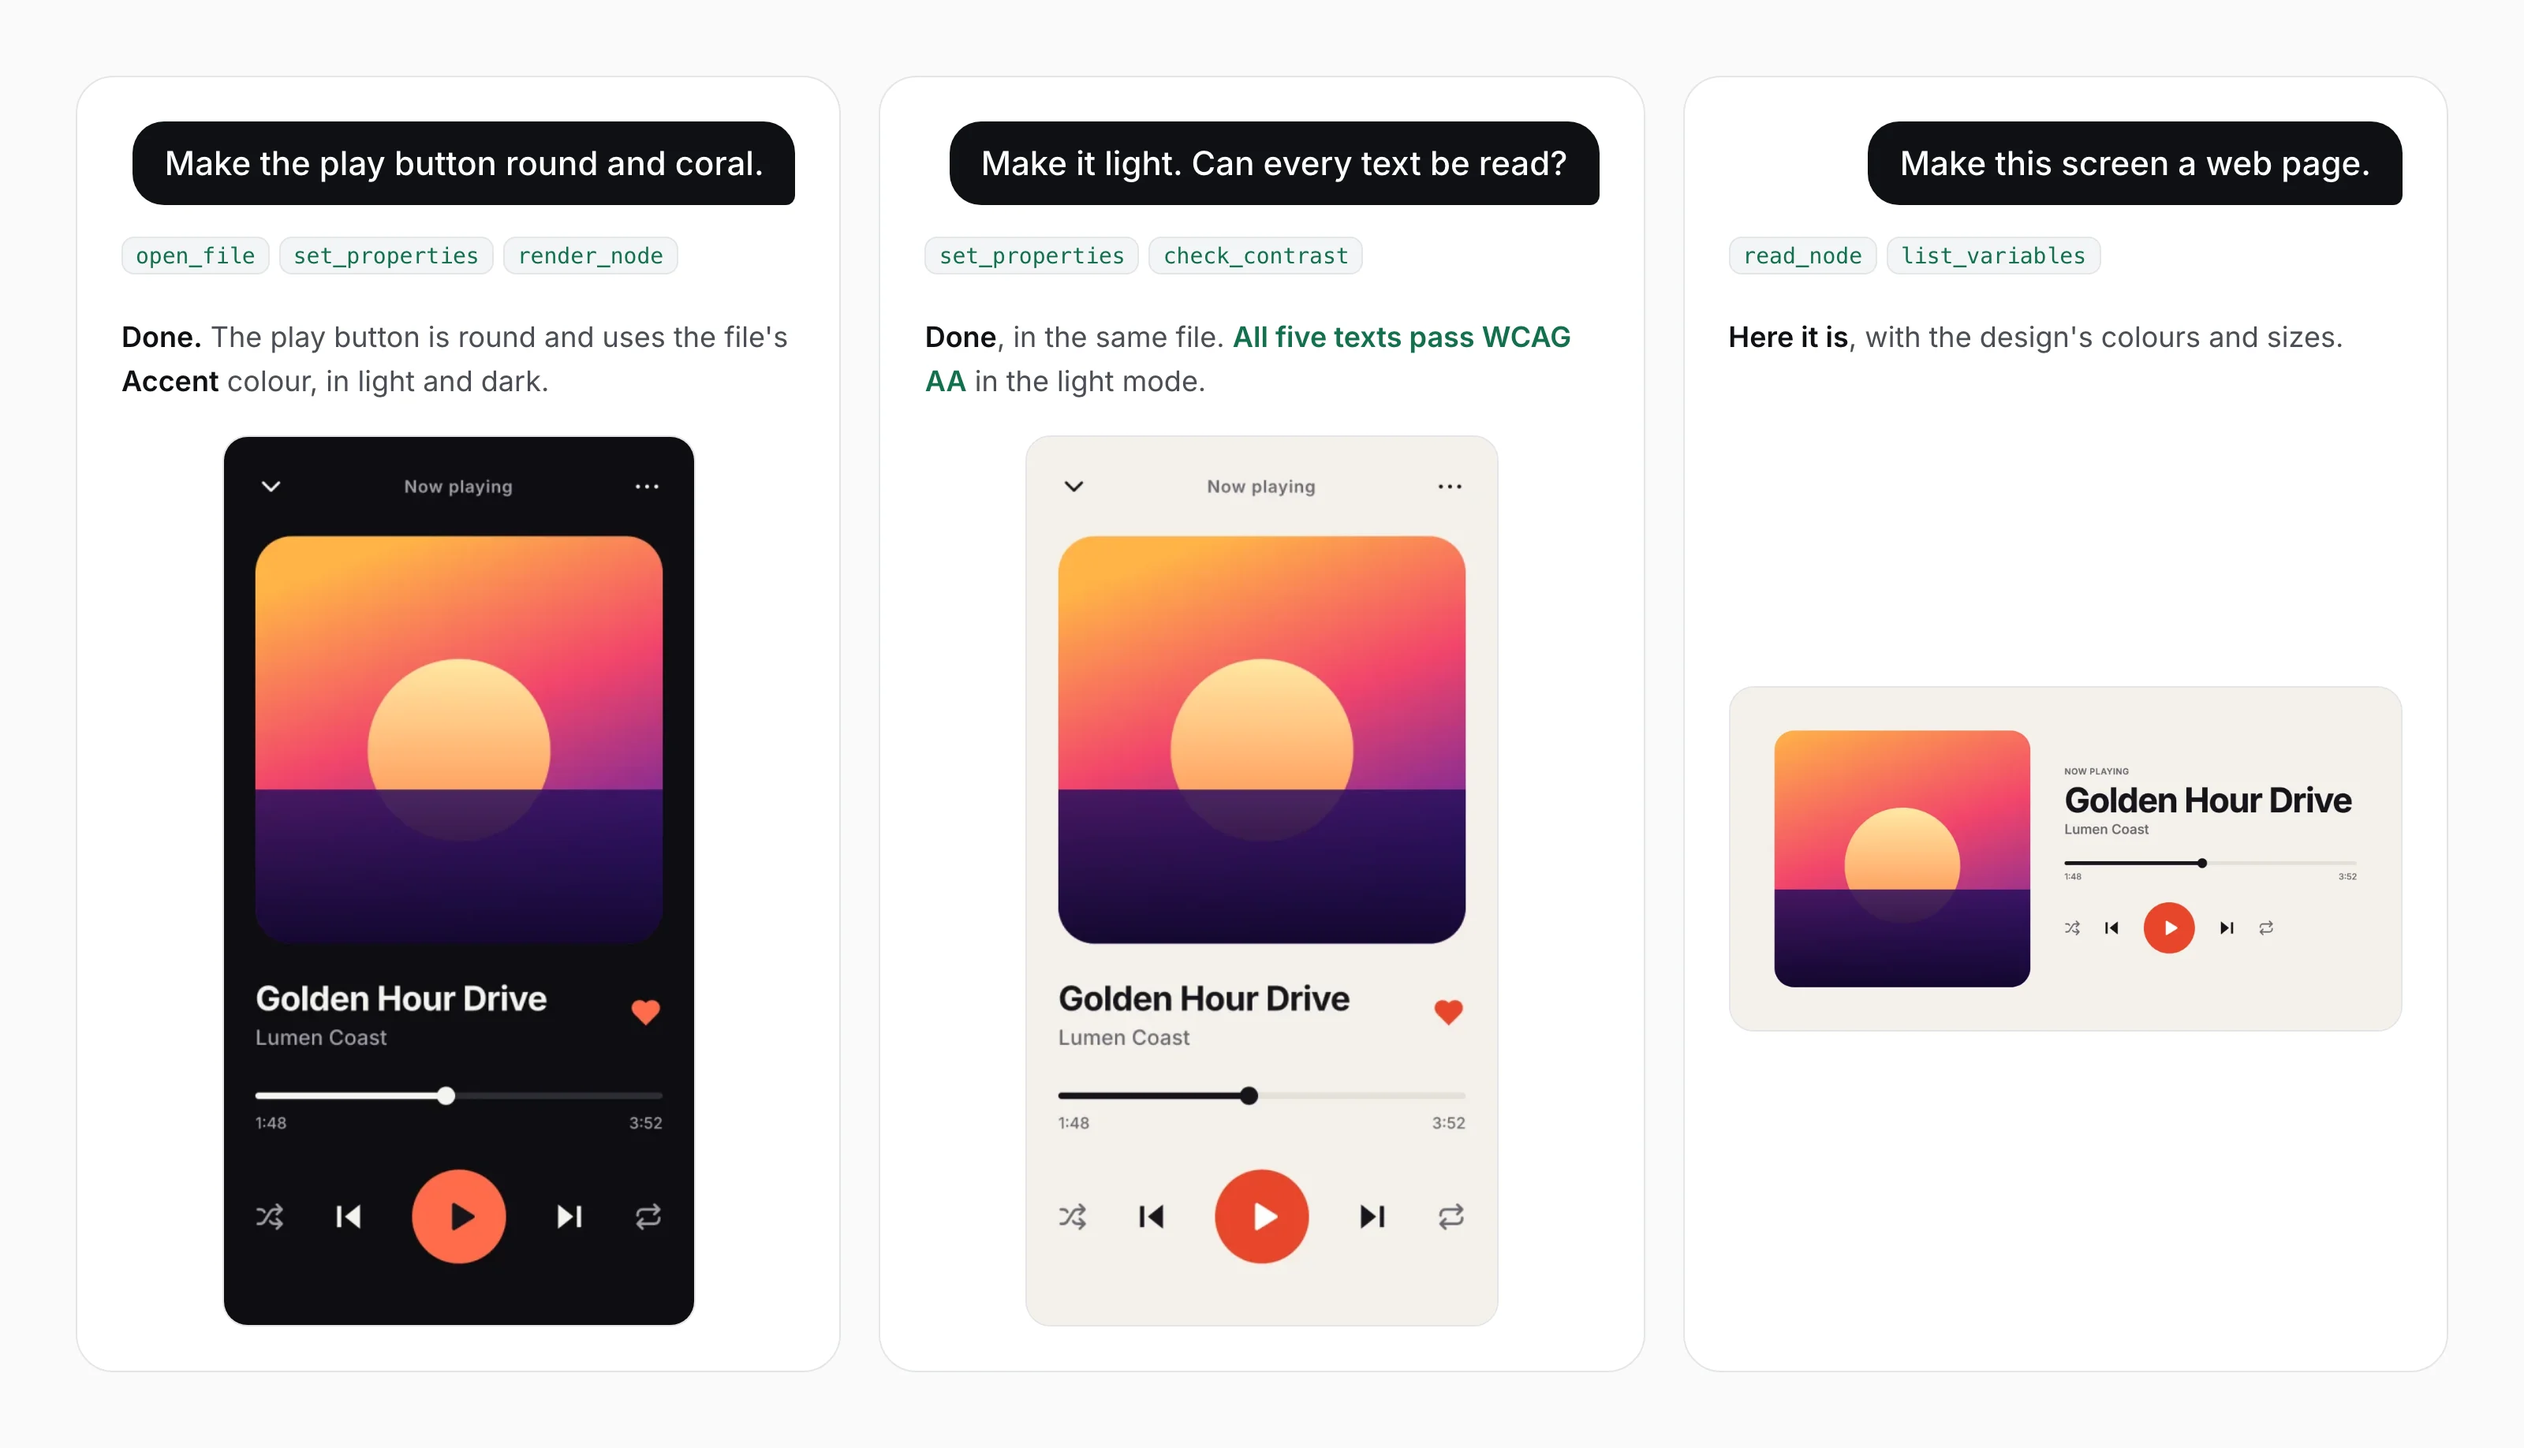
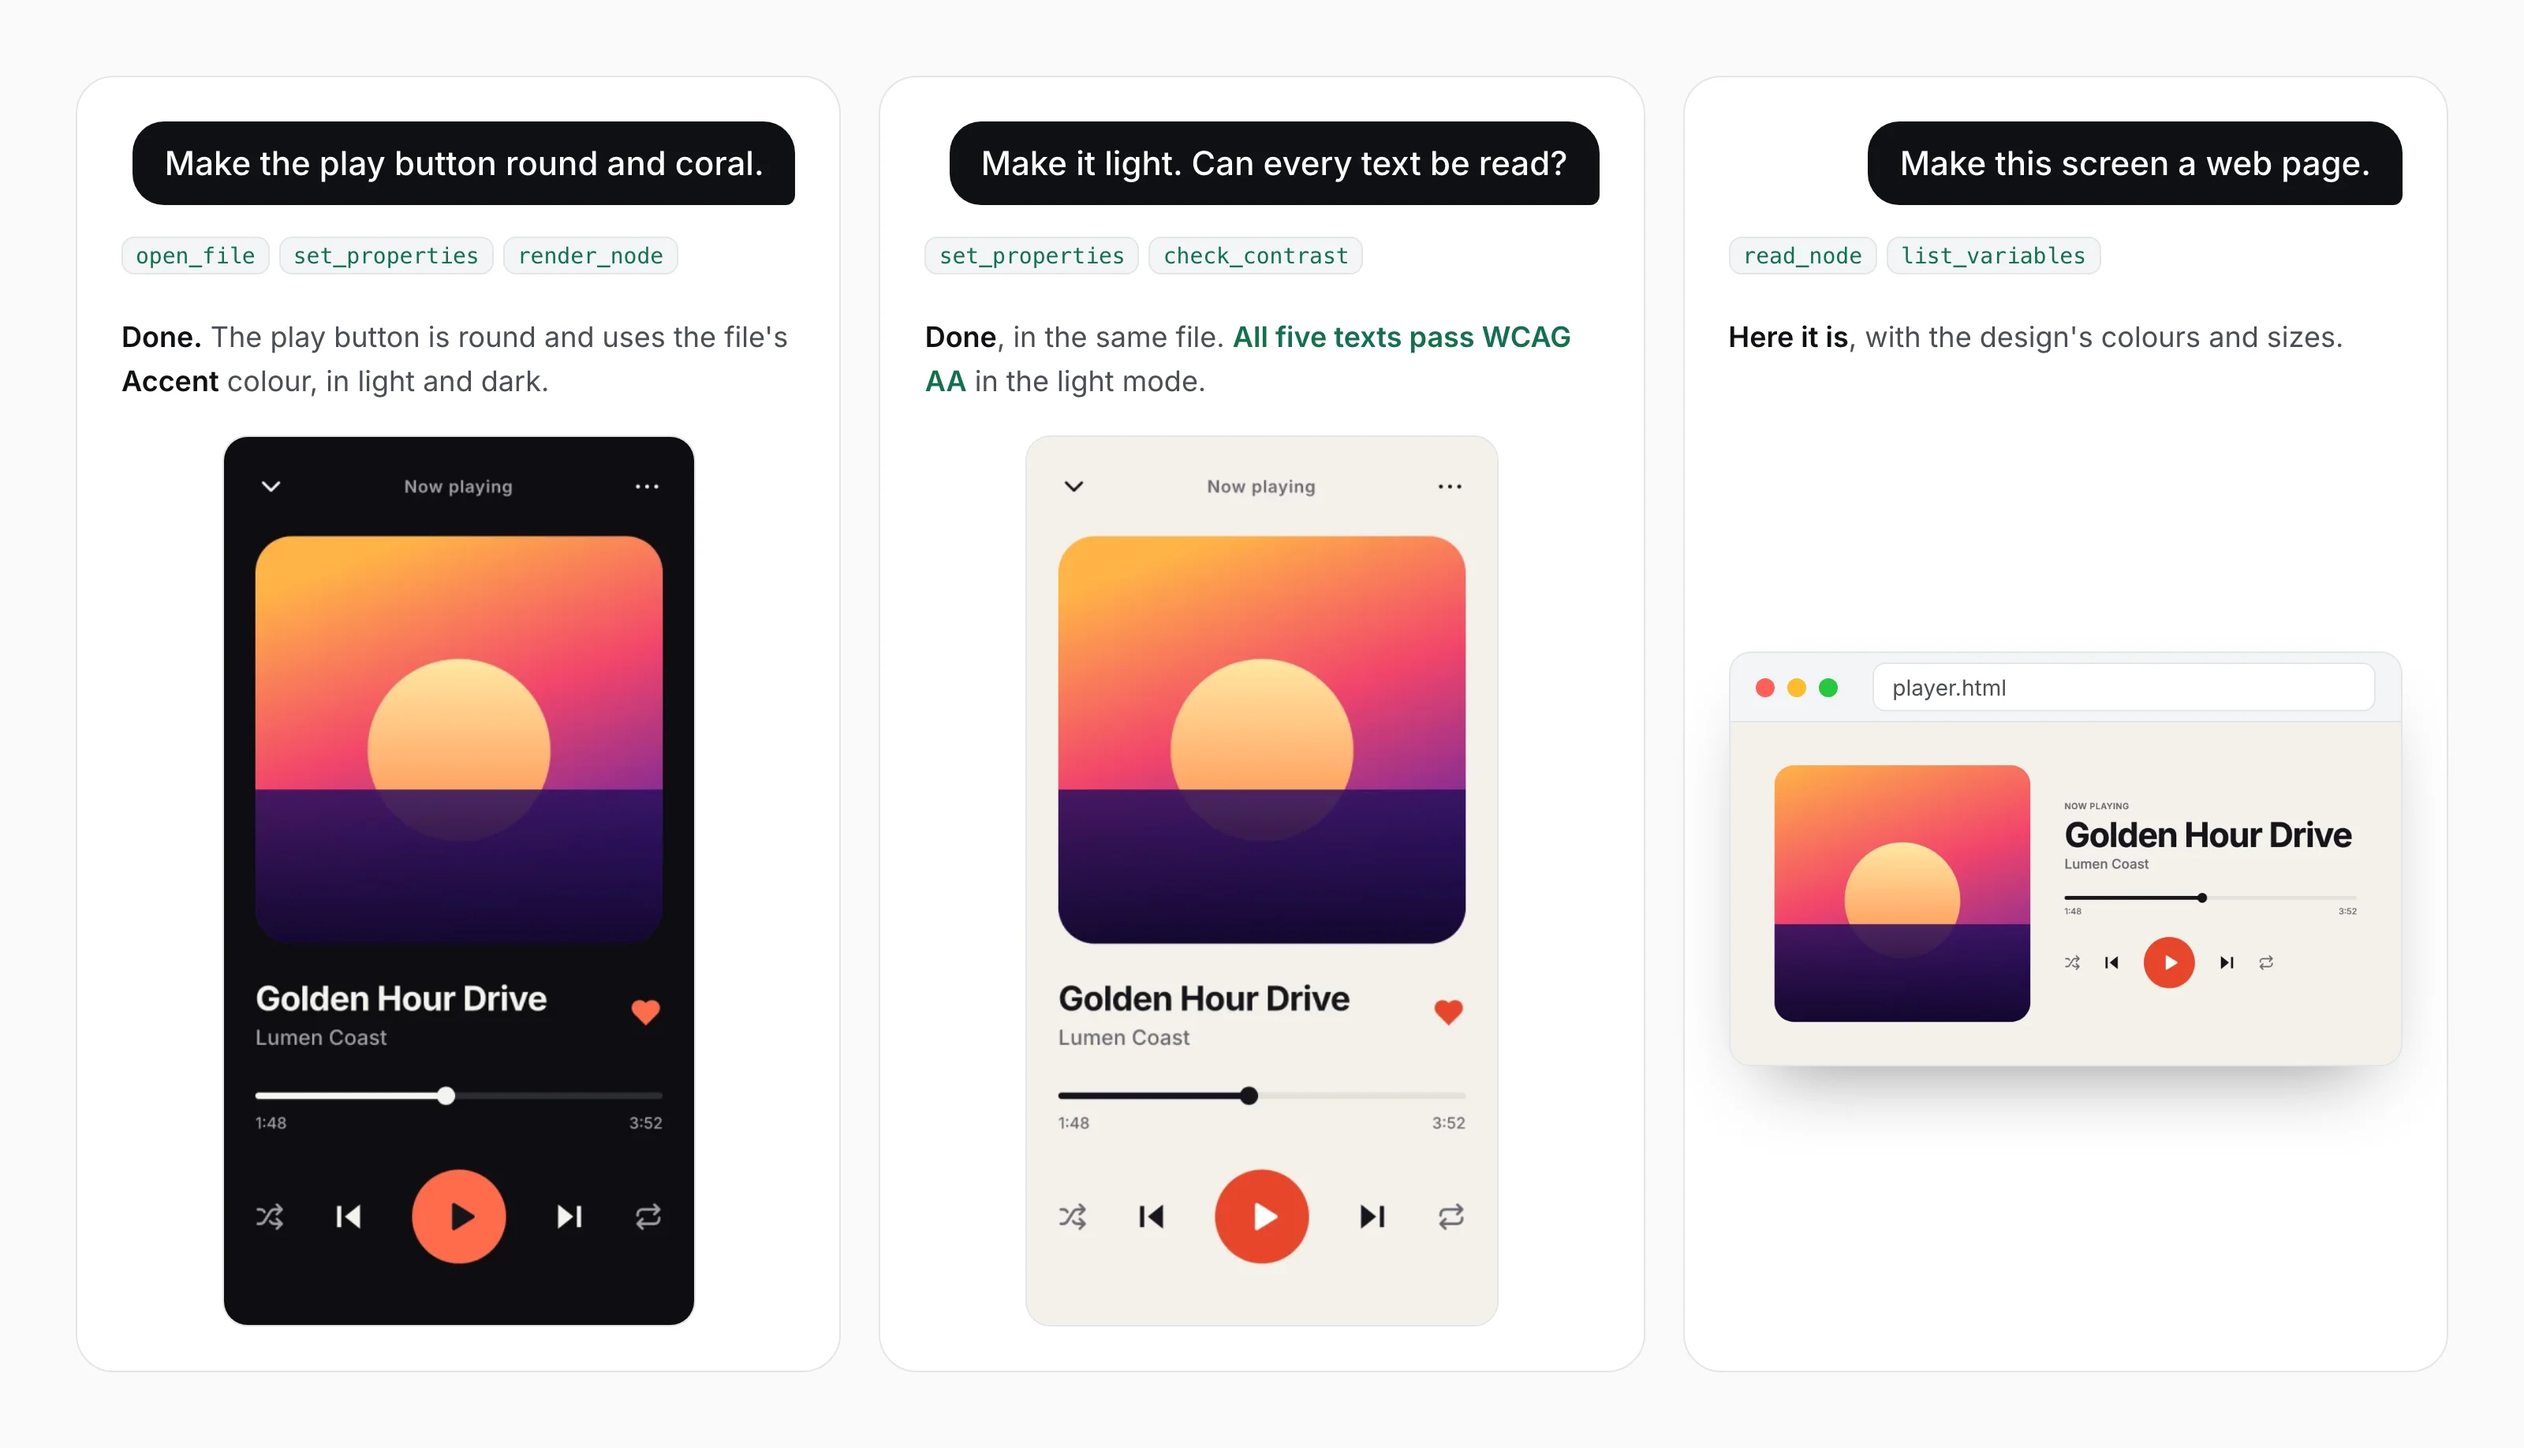
docs: the README picture shows the web page in a browser window

Changed region(s): [[0.6875, 0.4657, 0.9375, 0.7761]]

diff --git a/README.md b/README.md
@@ -19,7 +19,7 @@
 <p align="center">
   <picture>
     <source media="(prefers-color-scheme: dark)" srcset=".github/readme/talk-dark.webp">
-    <img src=".github/readme/talk-light.webp" width="100%" alt="Three requests to an AI app about a music player design, each with the grafta tools it called. Make the play button round and coral: done, with the file's Accent colour. Make it light, can every text be read: all five texts pass WCAG AA. Make this screen a web page: the page, with the design's colours and sizes.">
+    <img src=".github/readme/talk-light.webp" width="100%" alt="Three requests to an AI app about a music player design, each with the grafta tools it called. Make the play button round and coral: done, with the file's Accent colour. Make it light, can every text be read: all five texts pass WCAG AA. Make this screen a web page: the page, player.html, in a browser window, with the design's colours and sizes.">
   </picture>
 </p>
 
